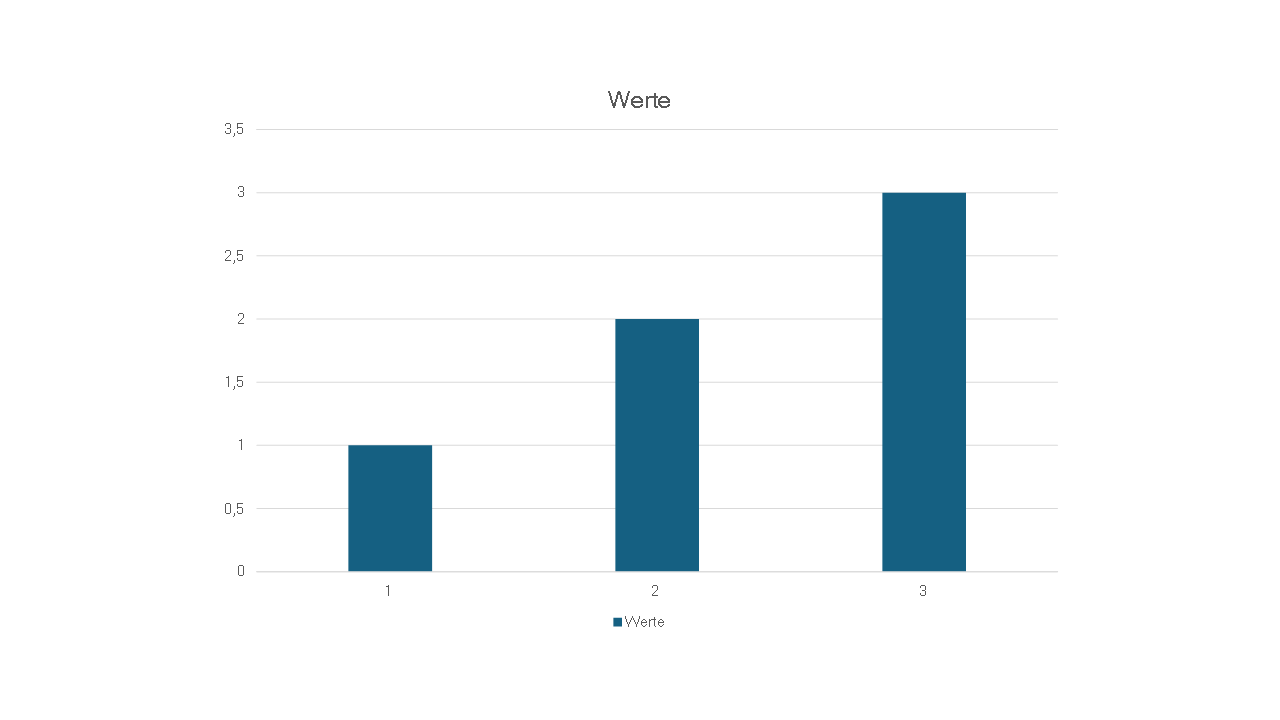
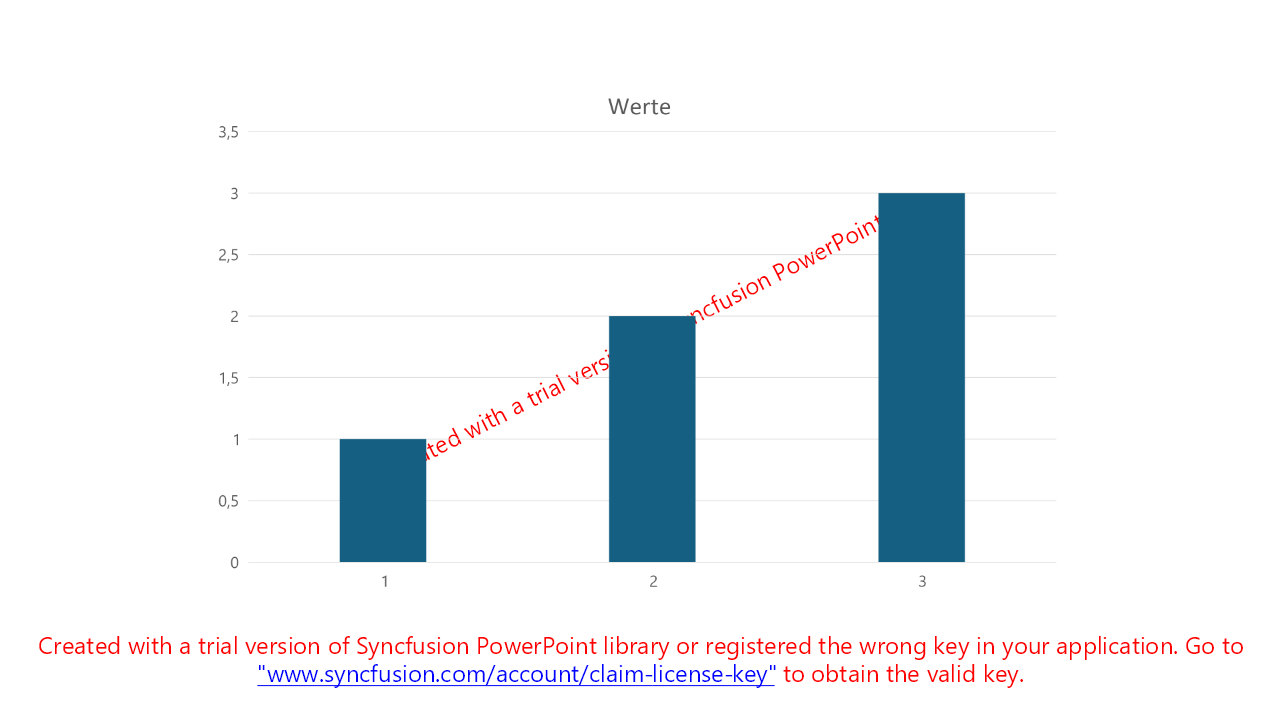
Use trial version of Syncfusion library for verification tests

diff --git a/TestSlideAssembler/VerifyTests.cs b/TestSlideAssembler/VerifyTests.cs
@@ -1,5 +1,4 @@
-using System.Drawing.Imaging;
-using Spire.Presentation;
+using Syncfusion.PresentationRenderer;
 
 namespace TestSlideAssembler
 {
@@ -18,68 +17,60 @@ namespace TestSlideAssembler
         [TestMethod]
         public async Task TestGeneratedPresentation()
         {
-            GeneratePowerpointWithAllFeatures();
-            await VerifyAllSlides();
+            using var stream = new MemoryStream();
+            GeneratePowerpointWithAllFeatures(stream);
+            stream.Position = 0;
+            await VerifyAllSlides(stream);
         }
 
-        private async Task VerifyAllSlides()
+        private async Task VerifyAllSlides(Stream stream)
         {
             if (!Directory.Exists(verificationDirectory))
             {
                 Directory.CreateDirectory(verificationDirectory);
             }
 
-            using (Spire.Presentation.Presentation presentation = new Presentation())
+            using var presentation = Syncfusion.Presentation.Presentation.Open(stream);
+            foreach (var slide in presentation.Slides)
             {
-                presentation.LoadFromFile("verify-tests-Output.pptx", FileFormat.Auto);
+                presentation.PresentationRenderer = new PresentationRenderer();
 
-                foreach (ISlide slide in presentation.Slides)
-                {
-                    var image = slide.SaveAsImage();
+                using var slideStream = slide.ConvertToImage(Syncfusion.Presentation.ExportImageFormat.Png);
+                slideStream.Position = 0;
 
-                    using (var imageStream = new MemoryStream())
-                    {
-                        image.Save(imageStream, ImageFormat.Png);
-                        imageStream.Position = 0;
-
-                        await Verify(imageStream, "png")
-                            .UseDirectory(verificationDirectory)
-                            .UseFileName("slide-" + slide.SlideNumber);       //expecting all slide-xy.verified.png pictures are already there
-                    }
-                }
+                await Verify(slideStream, "png")
+                    .UseDirectory(verificationDirectory)
+                    .UseFileName("slide-" + slide.SlideNumber);
             }
         }
 
-        private void GeneratePowerpointWithAllFeatures()    //uses SlideAssembler to create a Presentation with all its features 
+        private void GeneratePowerpointWithAllFeatures(Stream stream)    //uses SlideAssembler to create a Presentation with all its features 
         {
             using (var template = File.OpenRead(Path.Combine(verificationDirectory, powerpointTemplate)))
             {
-                using (var output = new FileStream("verify-tests-Output.pptx", FileMode.Create, FileAccess.ReadWrite))
+                //====================================================Data for Powerpoint generation (has to match the template)====================================================
+
+                var values = new[] { 0.82, 0.88, 0.64, 0.79, 0.31 };
+
+                var data = new
                 {
-                    //====================================================Data for Powerpoint generation (has to match the template)====================================================
-
-                    var values = new[] { 0.82, 0.88, 0.64, 0.79, 0.31 };
-
-                    var data = new
+                    Titel = $"Messwerte vom {new DateTime(2024, 8, 7):d}",
+                    Benutzer = new
                     {
-                        Titel = $"Messwerte vom {new DateTime(2024, 8, 7):d}",
-                        Benutzer = new
-                        {
-                            Vorname = "Max",
-                            Nachname = "Mustermann"
-                        },
-                        Minimum = values.Min(),
-                        Mittelwert = values.Average(),
-                        Maximum = values.Max(),
-                        Werte = values
-                    };
+                        Vorname = "Max",
+                        Nachname = "Mustermann"
+                    },
+                    Minimum = values.Min(),
+                    Mittelwert = values.Average(),
+                    Maximum = values.Max(),
+                    Werte = values
+                };
 
-                    //==================================================================================================================================================================
+                //==================================================================================================================================================================
 
-                    SlideAssembler.SlideAssembler.Load(template)
-                                .Apply(new FillPlaceholders(data))
-                                .Save(output);
-                }
+                SlideAssembler.SlideAssembler.Load(template)
+                            .Apply(new FillPlaceholders(data))
+                            .Save(stream);
             }
         }
     }

diff --git a/ImageTest/Program.cs b/ImageTest/Program.cs
@@ -1,0 +1,20 @@
+//using GemBox.Presentation;
+
+var path = "..\\..\\..\\..\\TestSlideAssembler\\bin\\debug\\net8.0\\verify-tests-Output.pptx";
+
+//ComponentInfo.SetLicense("FREE-LIMITED-KEY");
+
+//var presentation = PresentationDocument.Load(path);
+
+//presentation.Slides.RemoveAt(0);
+//presentation.Save("1.pdf", ImageSaveOptions.Pdf);
+
+
+//var presentation = Syncfusion.Presentation.Presentation.Open(path);
+//presentation.PresentationRenderer = new PresentationRenderer();
+//using var stream = presentation.Slides.First().ConvertToImage(Syncfusion.Presentation.ExportImageFormat.Png);
+//using var file = File.Open("1.png", FileMode.Create);
+//await stream.CopyToAsync(file);
+
+
+var presentation = FileFormat.Slides.Presentation.Open(path);
